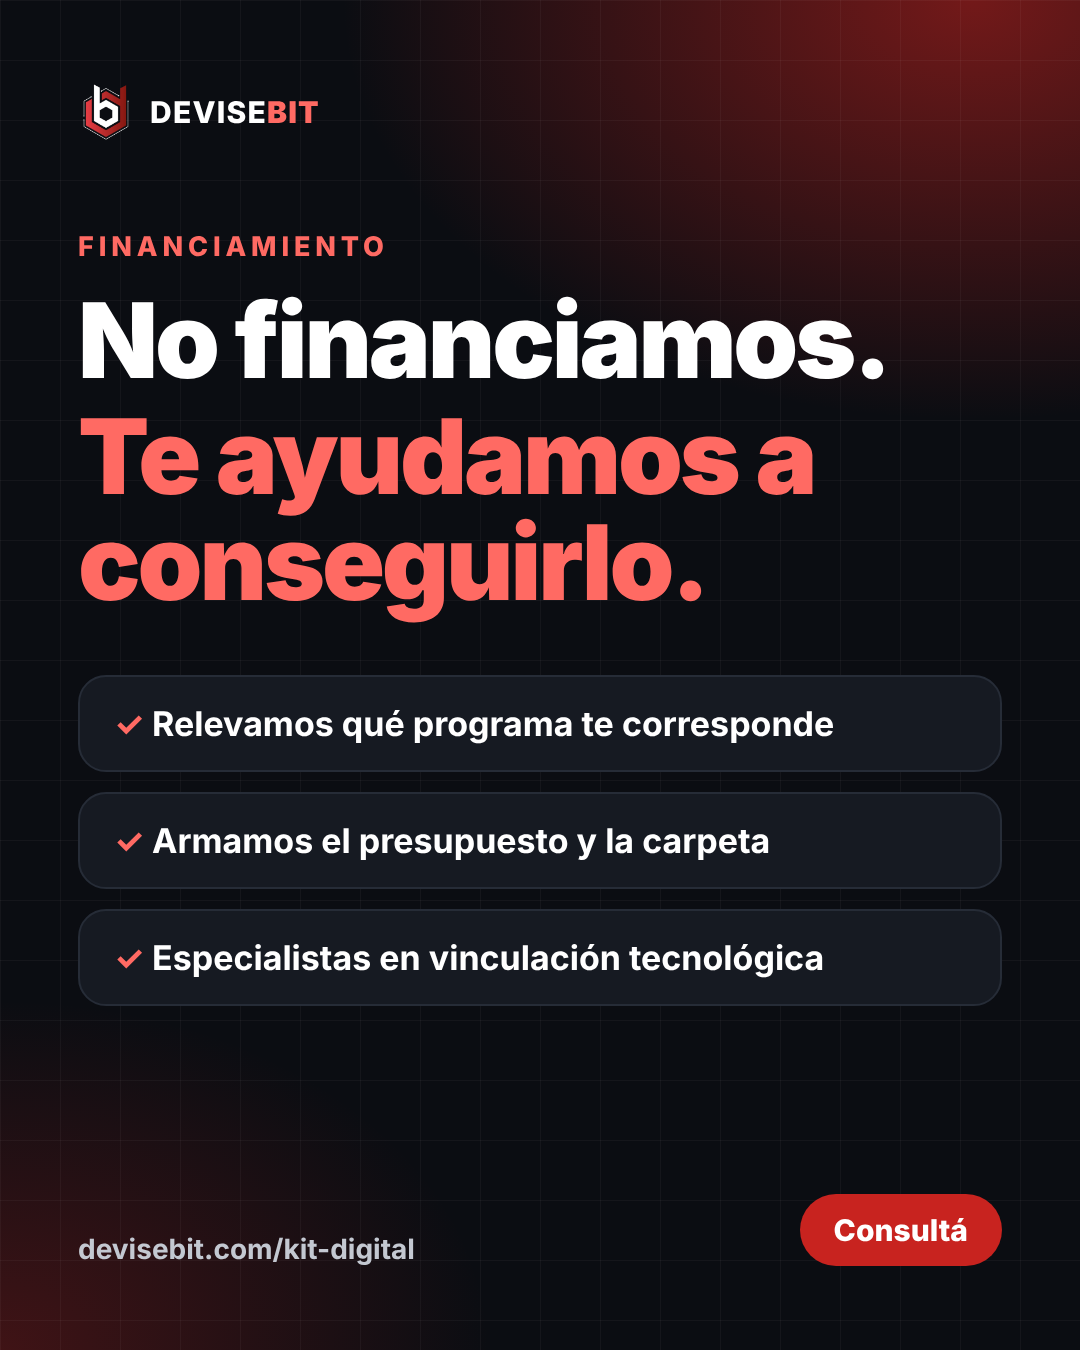
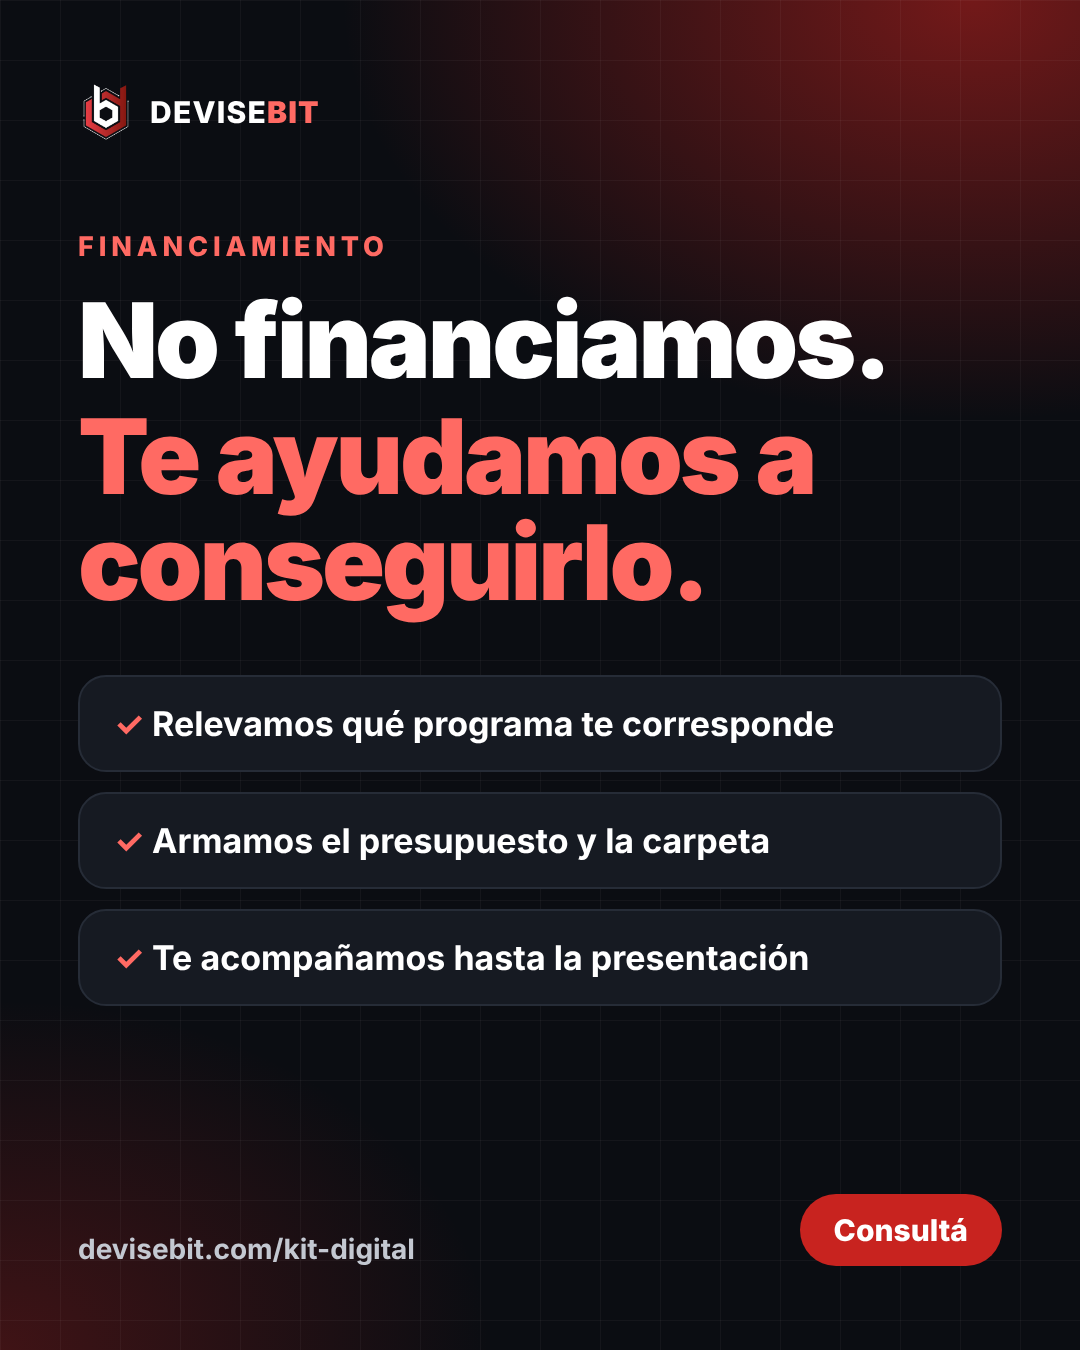
Piezas: pieza de financiamiento sin mención de UVT
Claude-Session: https://claude.ai/code/session_01JmMyMvH4BJVVWfNSjb5RVC

Changed region(s): [[0.1222, 0.6844, 0.7639, 0.7467]]

diff --git a/lib/piezas.ts b/lib/piezas.ts
@@ -31,8 +31,8 @@ export const PIEZAS: Pieza[] = [
     texto: `4 kits con alcance cerrado, hechos sobre productos que ya funcionan en producción:\n\n01 · Canal Digital: web + WhatsApp + pagos\n02 · CRM y Automatización: seguimiento sin perder a nadie\n03 · IA Comercial: atención 24 h con derivación a personas\n04 · Gestión Documental: firma digital y trazabilidad\n\nSabés qué incluye, qué recibís y quién responde antes de empezar.\n👉 devisebit.com/kit-digital\n\n${TAGS} #kit`,
     en: `Four fixed-scope kits built on products already running in production: Digital Channel, CRM & Automation, Commercial AI, Document Management.\n\ndevisebit.com/en/digital-kit\n\n#DEVISEBIT #AI #SME`, link: "https://www.devisebit.com/kit-digital" },
   { id: "07-financiamiento", titulo: "Te ayudamos a conseguir financiamiento", formato: "feed", donde: "Instagram, LinkedIn",
-    texto: `No financiamos nosotros. Te ayudamos a conseguirlo.\n\n✓ Relevamos qué programa te corresponde\n✓ Armamos el presupuesto desglosado y la carpeta\n✓ Trabajamos con especialistas en vinculación tecnológica\n\nEl financiamiento depende de cada programa y de los requisitos vigentes: lo confirmamos caso por caso, antes de que contrates.\n👉 devisebit.com/kit-digital\n\n${TAGS} #financiamiento`,
-    en: `We do not lend. We help you get funded: we map the program that applies, build the itemized quote and the file, and work with technology liaison specialists.\n\ndevisebit.com/en/digital-kit\n\n#DEVISEBIT #funding`, link: "https://www.devisebit.com/kit-digital" },
+    texto: `No financiamos nosotros. Te ayudamos a conseguirlo.\n\n✓ Relevamos qué programa te corresponde\n✓ Armamos el presupuesto desglosado y la carpeta\n✓ Te acompañamos hasta la presentación del trámite\n\nEl financiamiento depende de cada programa y de los requisitos vigentes: lo confirmamos caso por caso, antes de que contrates.\n👉 devisebit.com/kit-digital\n\n${TAGS} #financiamiento`,
+    en: `We do not lend. We help you get funded: we map the program that applies, build the itemized quote and the file, and stay with you through the filing.\n\ndevisebit.com/en/digital-kit\n\n#DEVISEBIT #funding`, link: "https://www.devisebit.com/kit-digital" },
   { id: "08-madurez", titulo: "¿En qué nivel está tu organización?", formato: "feed", donde: "Instagram, Facebook, LinkedIn",
     texto: `¿En qué nivel de madurez digital está tu organización?\n\n1 · Inicial\n2 · En orden\n3 · Integrado\n4 · Optimizado\n\nMedilo gratis en 5 minutos y llevate el resultado con los próximos pasos.\n👉 devisebit.com/diagnostico\n\n${TAGS}`,
     en: `Which digital maturity level is your organization at? Initial, organized, integrated or optimized. Find out in 5 minutes.\n\ndevisebit.com/en/contact\n\n#DEVISEBIT #digitaltransformation`, link: "https://www.devisebit.com/diagnostico" },
